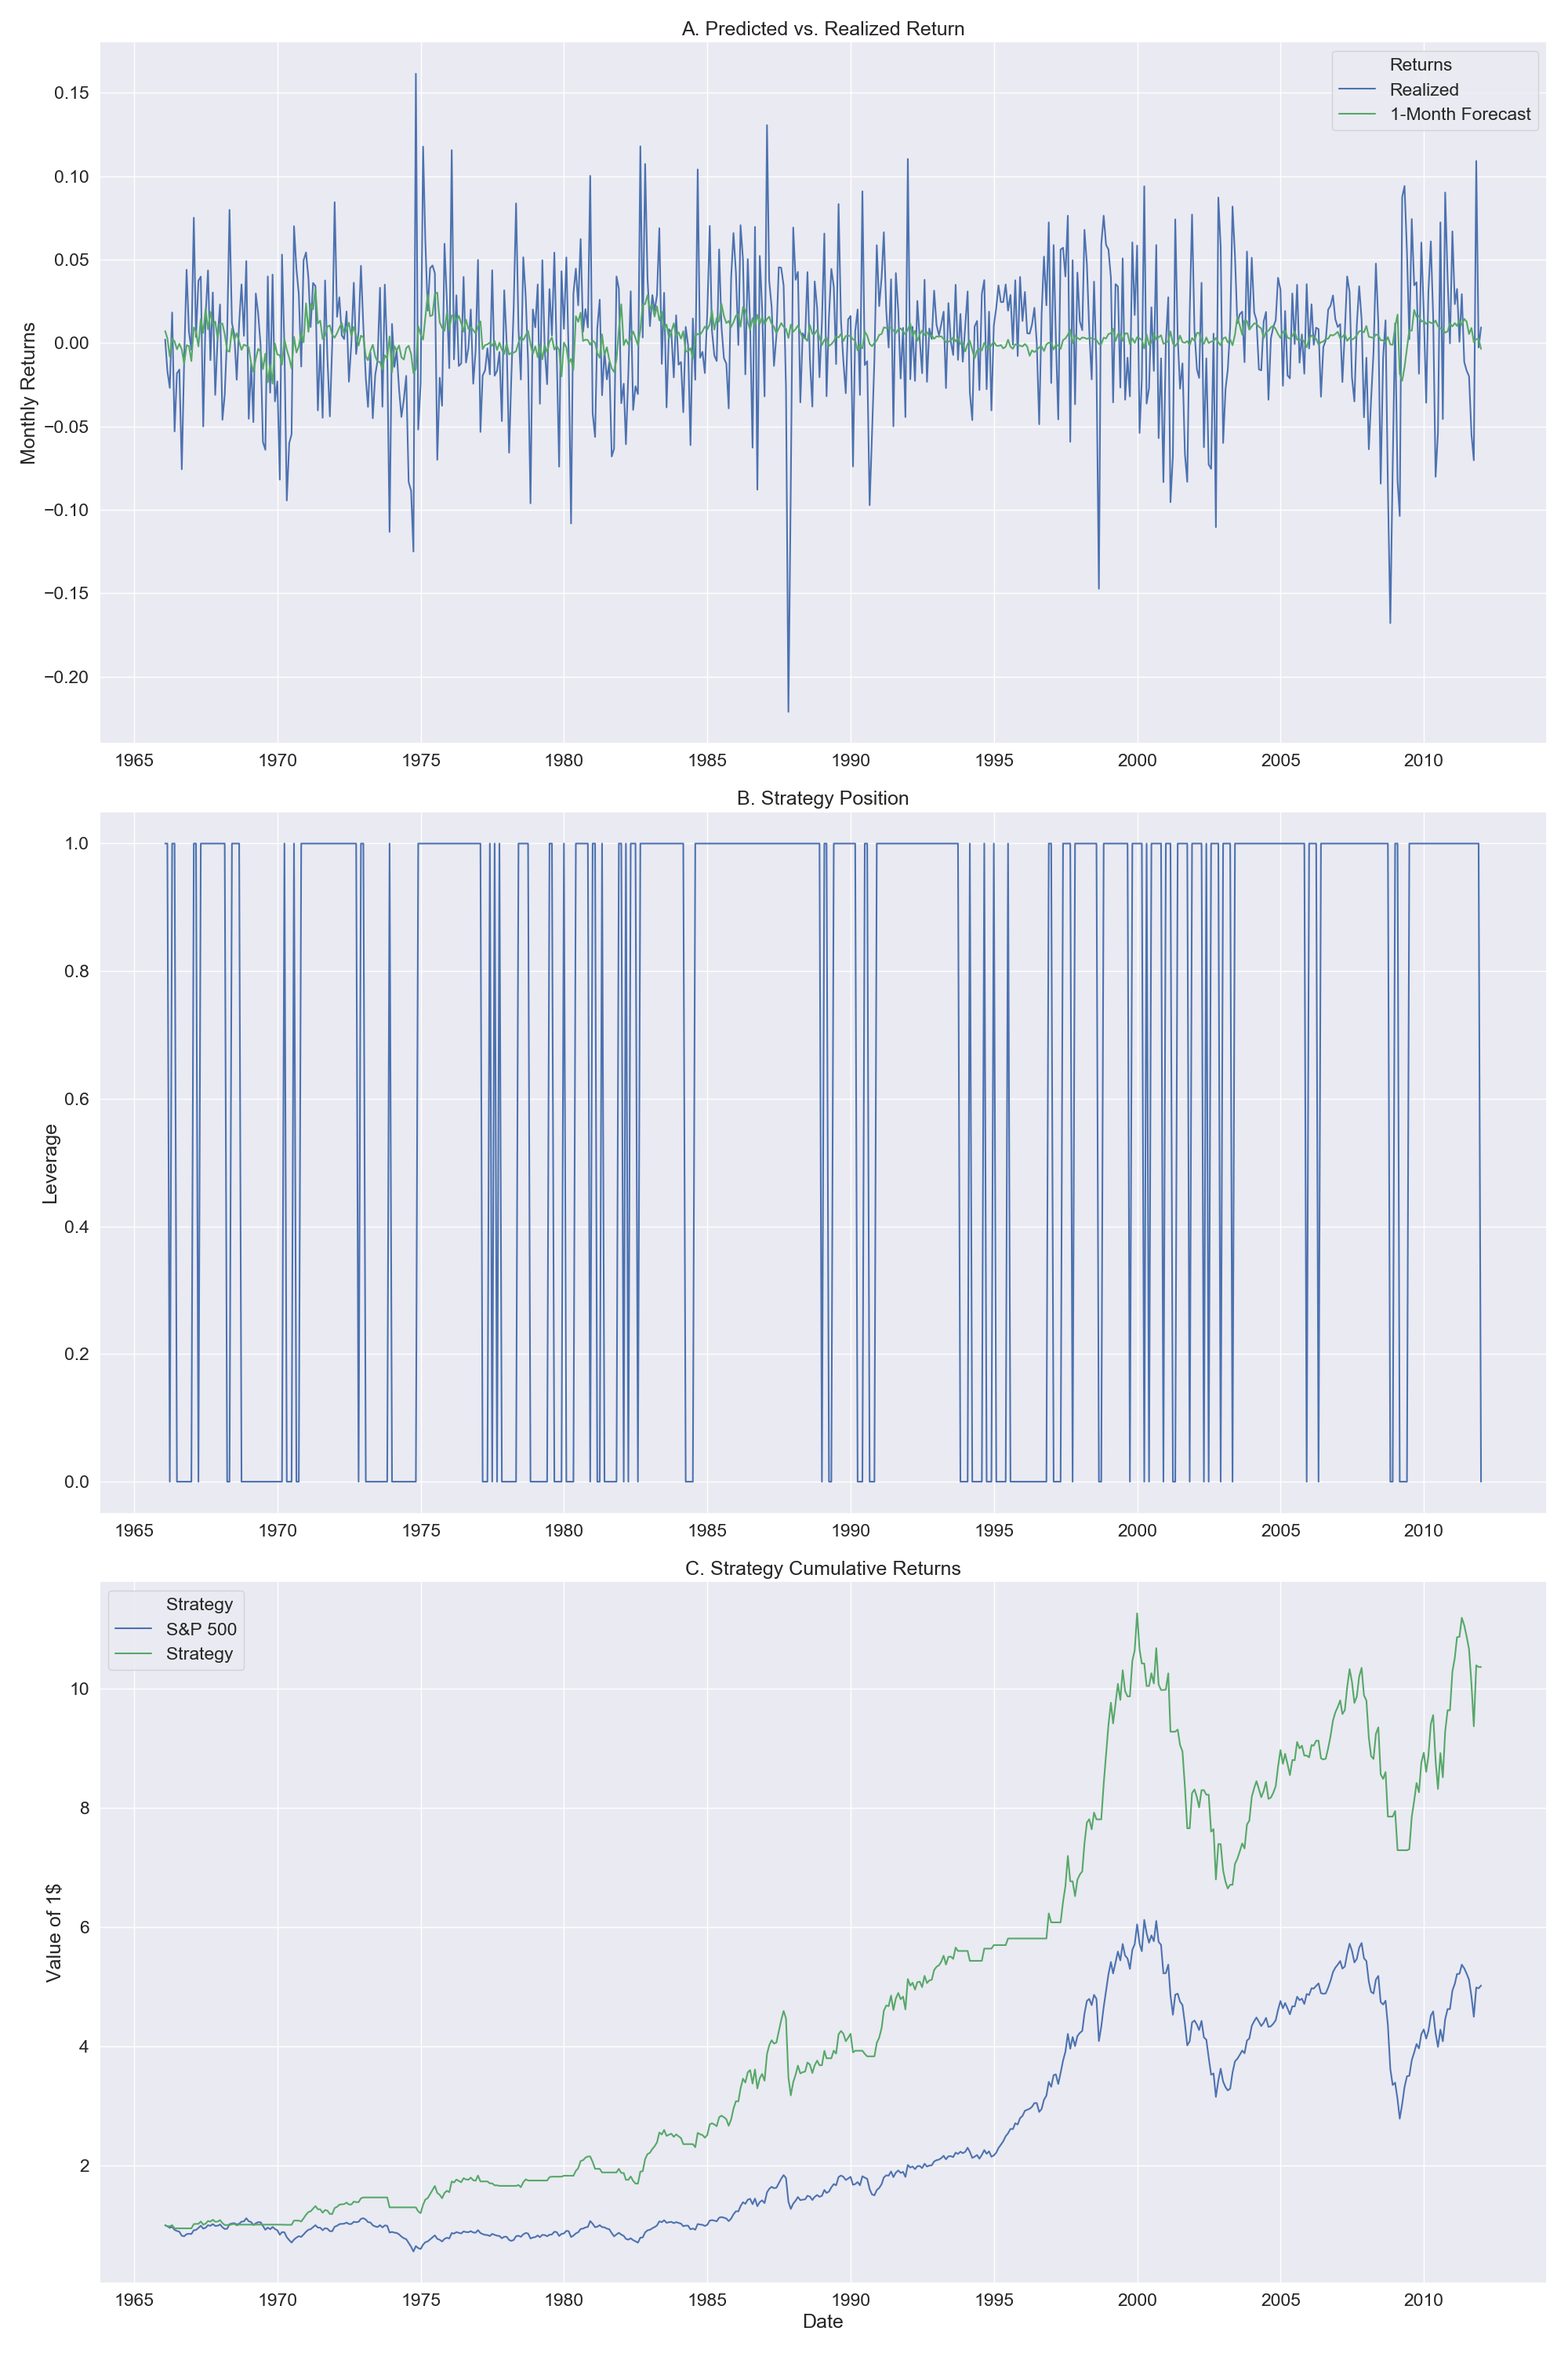
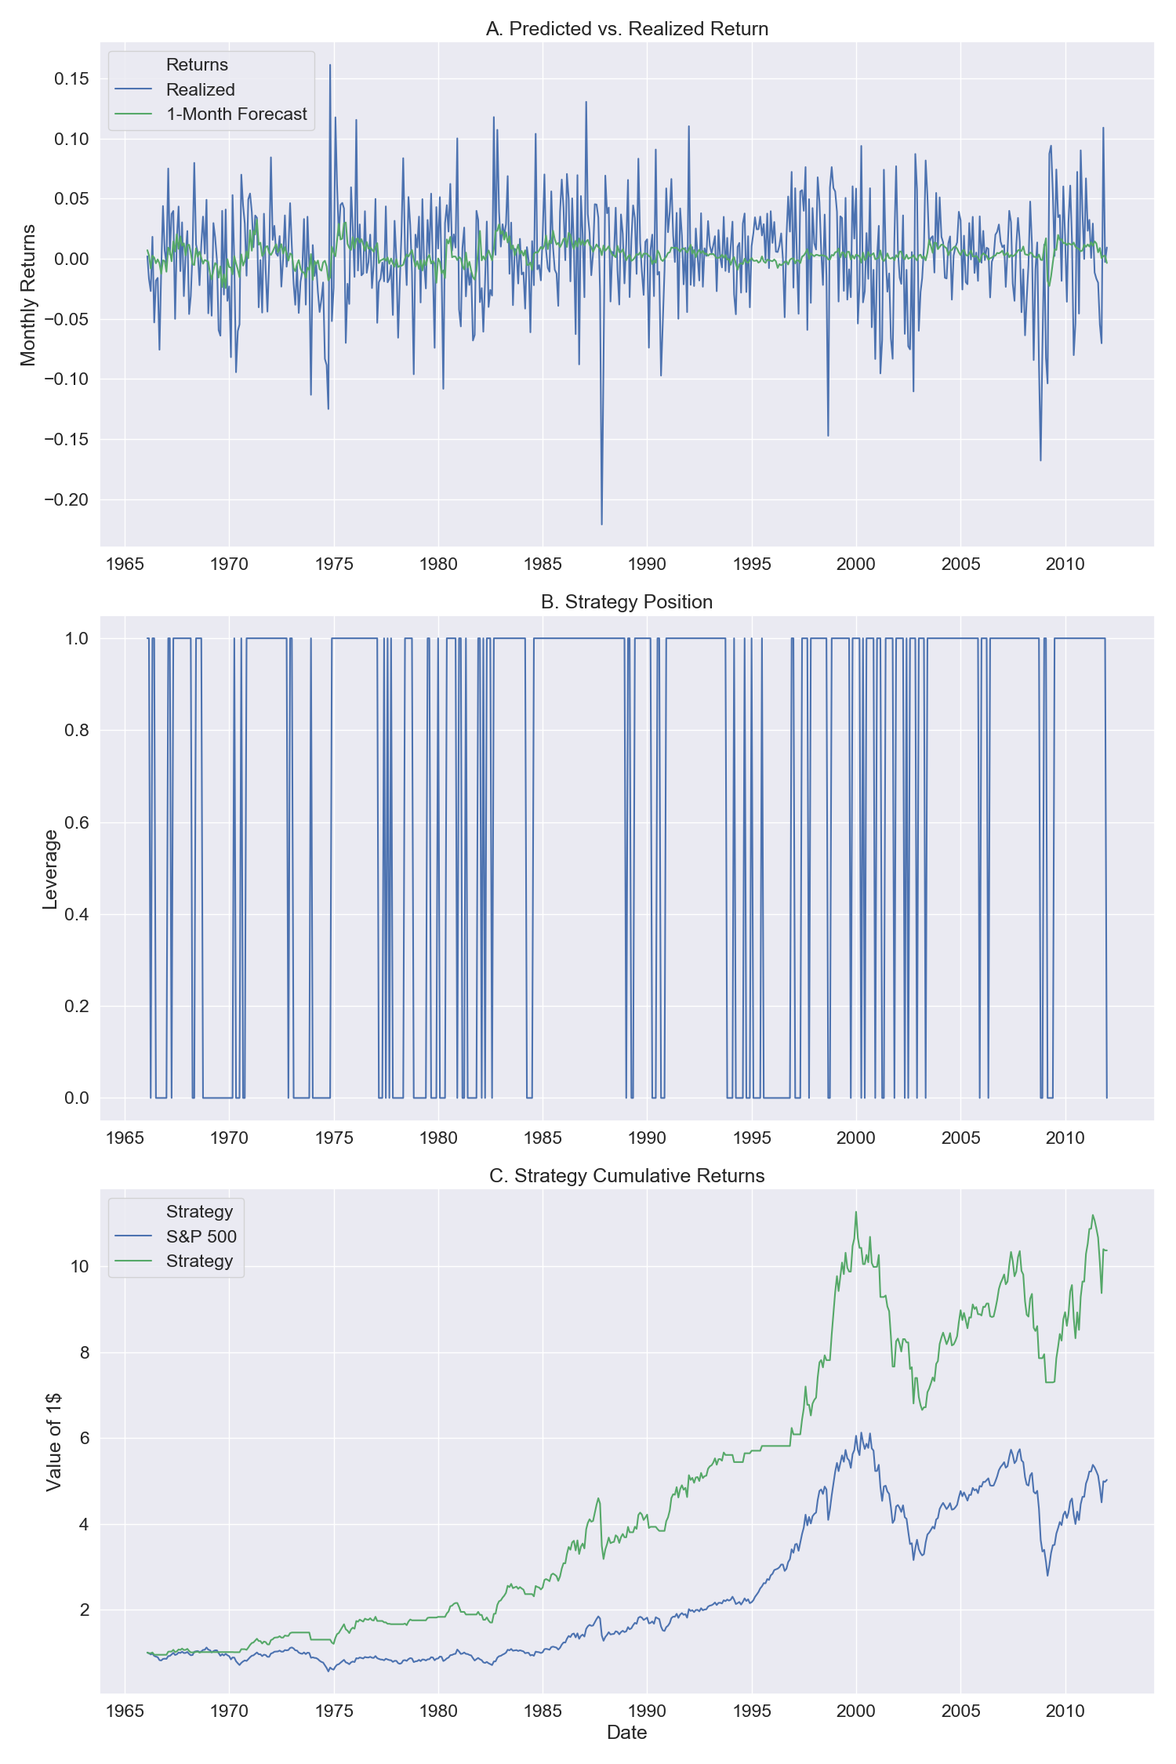
Report Progress

diff --git a/src/visualize.py b/src/visualize.py
@@ -13,7 +13,7 @@ import seaborn as sns
 sns.set()
 sns.set(font_scale=1.5)
 import matplotlib.pyplot as plt
-plt.rcParams['figure.figsize'] = [20, 30]
+plt.rcParams['figure.figsize'] = [15, 22.5]
 #%% #--------------------------------------------------
 #* Global Parameters *
 # Add interactions or not

diff --git a/reports/Report.md b/reports/Report.md
@@ -59,7 +59,7 @@ See [Neely et al. (2014)](https://papers.ssrn.com/sol3/papers.cfm?abstract_id=17
 
 
 ## Exploratory Data Analysis
-In this [Jupyter notebook](../notebooks/01-First_Data_Analysis.ipynb) I do exploratory data analysis and find that in a simplified setting considered models are able to predict aggregate stock market returns. 
+In this [Jupyter notebook](../notebooks/01-First_Data_Analysis.ipynb) I do exploratory data analysis and find that in a simplified setting considered models are able to predict S&P 500 index returns. 
 
 ## Cross-Validation Methods
 In this project I develop and implement a novel cross-validation method - one-month forward expanding window nested cross-validation. This cross-validation method chooses the best hyperparameters by comparing the performance of underlying models in the one-month forward predictive setting. Each month those hyperparameters are chosen that ensure the best performance for the historical validation sample. The figure below explains this method. 
@@ -105,7 +105,8 @@ In the table below I compare the effect of different cross-validation methods on
 
 The  results reveal that one-month forward expanding window nested cross-validation delivers the most accurate forecasts.
 
-Can one use more accurate forecasts to construct a trading strategy? The figure below answers this question. In the panel A, I draw one-month forward forecasts versus the realized returns. There is a  noticeable difference in variances of forecasted and realized returns. But as [Campbell and Thomson (2008)](rfs.oxfordjournals.org/cgi/doi/10.1093/rfs/hhm055) among others notice, even a small imporvement in forecasting accuracy might result sizable economic effects.  
+Can one use more accurate forecasts to construct a trading strategy? The figure below answers this question. In the panel A, I draw one-month forward forecasts versus the realized returns. There is a  noticeable difference in variances of forecasted and realized returns. But as [Campbell and Thomson (2008)](rfs.oxfordjournals.org/cgi/doi/10.1093/rfs/hhm055) among others notice, even a small imporvement in forecasting accuracy might result sizable economic effects.
+I use return forecasts of the Elastic Net model to construct a simple strategy. The strategy enters the S&P 500 index when the forecasted return is above 0. Otherwise, the strategy's position in the index is zero. The corresponding position dynamics is depicted in panel B of the figure. Finally, panel C shows the value of one dollar invested in 1966 in the S&P 500 index and the market timing strategy based on the Elastic Net model. The strategy results in around 2 times higher wealth by the end of the period than pure S&P 500 index. One dollar invested in the strategy turns into 10 dollars. In comparison, S&P 500 strategy turns into around 1$. 
 
 ##### Figure: Performance of Elastic Net Strategy with One-Month Ahead Expanding Window Nested Cross-Validation:
 ![perf2](figures/enet.png "Elastic Net - with Expanding Window Cross-Validation")
@@ -114,11 +115,13 @@ Can one use more accurate forecasts to construct a trading strategy? The figure 
 
 ## Ideas and Possible Extensions 
 
-- To improve efficiency of the new cross-validation algorithms. Currently, it does all cross-validations indepndently for each period. Calculations could be accelerated by orders of magnitude by using calculations from pervious periods . 
+- Optimize new cross-validation algorithm. Currently, it does all cross-validations indepndently for each period - repeatative estimations. Calculations could be accelerated by orders of magnitude by using calculations from pervious periods.
+- Include interaction terms and  lags of predictors to improve performance of the linear models.
 - Neural networks could be tested (such as LSTM). But these models usually require larger amount of data for precise estimates.  
 - Extend results to:
   - Other indexes/asset classes
   - Weekly/daily data frequency
   - More various predictors
  - Potential to contribute to the scikit-learn package by adding expanding and rolling window nested cross-validation methods
+ - Show other strategy performance measures, such as maximum drawdow, Sharpe ration and etc. [!Cite]
 

diff --git a/Readme.md b/Readme.md
@@ -1,15 +1,15 @@
 # Highlights:
-## A time-series framework to predict y using rolling window regressions - expanding and fixed window - that features:
- - Clear project structure based on cookiecutter datascience template
-- Usage of scikit-learn pipelines that simplify automation of the process
-- New scikit-learn time-series cross-validation method. For each period "t" the method uses all data prior to this period to train, vadlidate and choose the best model
-- Programming of new scikit-learn estimators
-- Notebook that explains and visualizes obtained findings
+## A time-series predictive framework that features:
+- Clear project structure based on [cookiecutter data science template]()Cite!
+- Usage of scikit-learn pipelines that simplify automation of the analysis
+- New scikit-learn estimators
+- New scikit-learn time-series cross-validation methods (nested cross-validation)
+- Domain-tailored prediction accuracy statistical tests 
+- Jupyter notebooks and presentations that explain and visualize obtained findings
+
 
 epml
 ==============================
-
-epml
 
 Project Organization
 ------------
